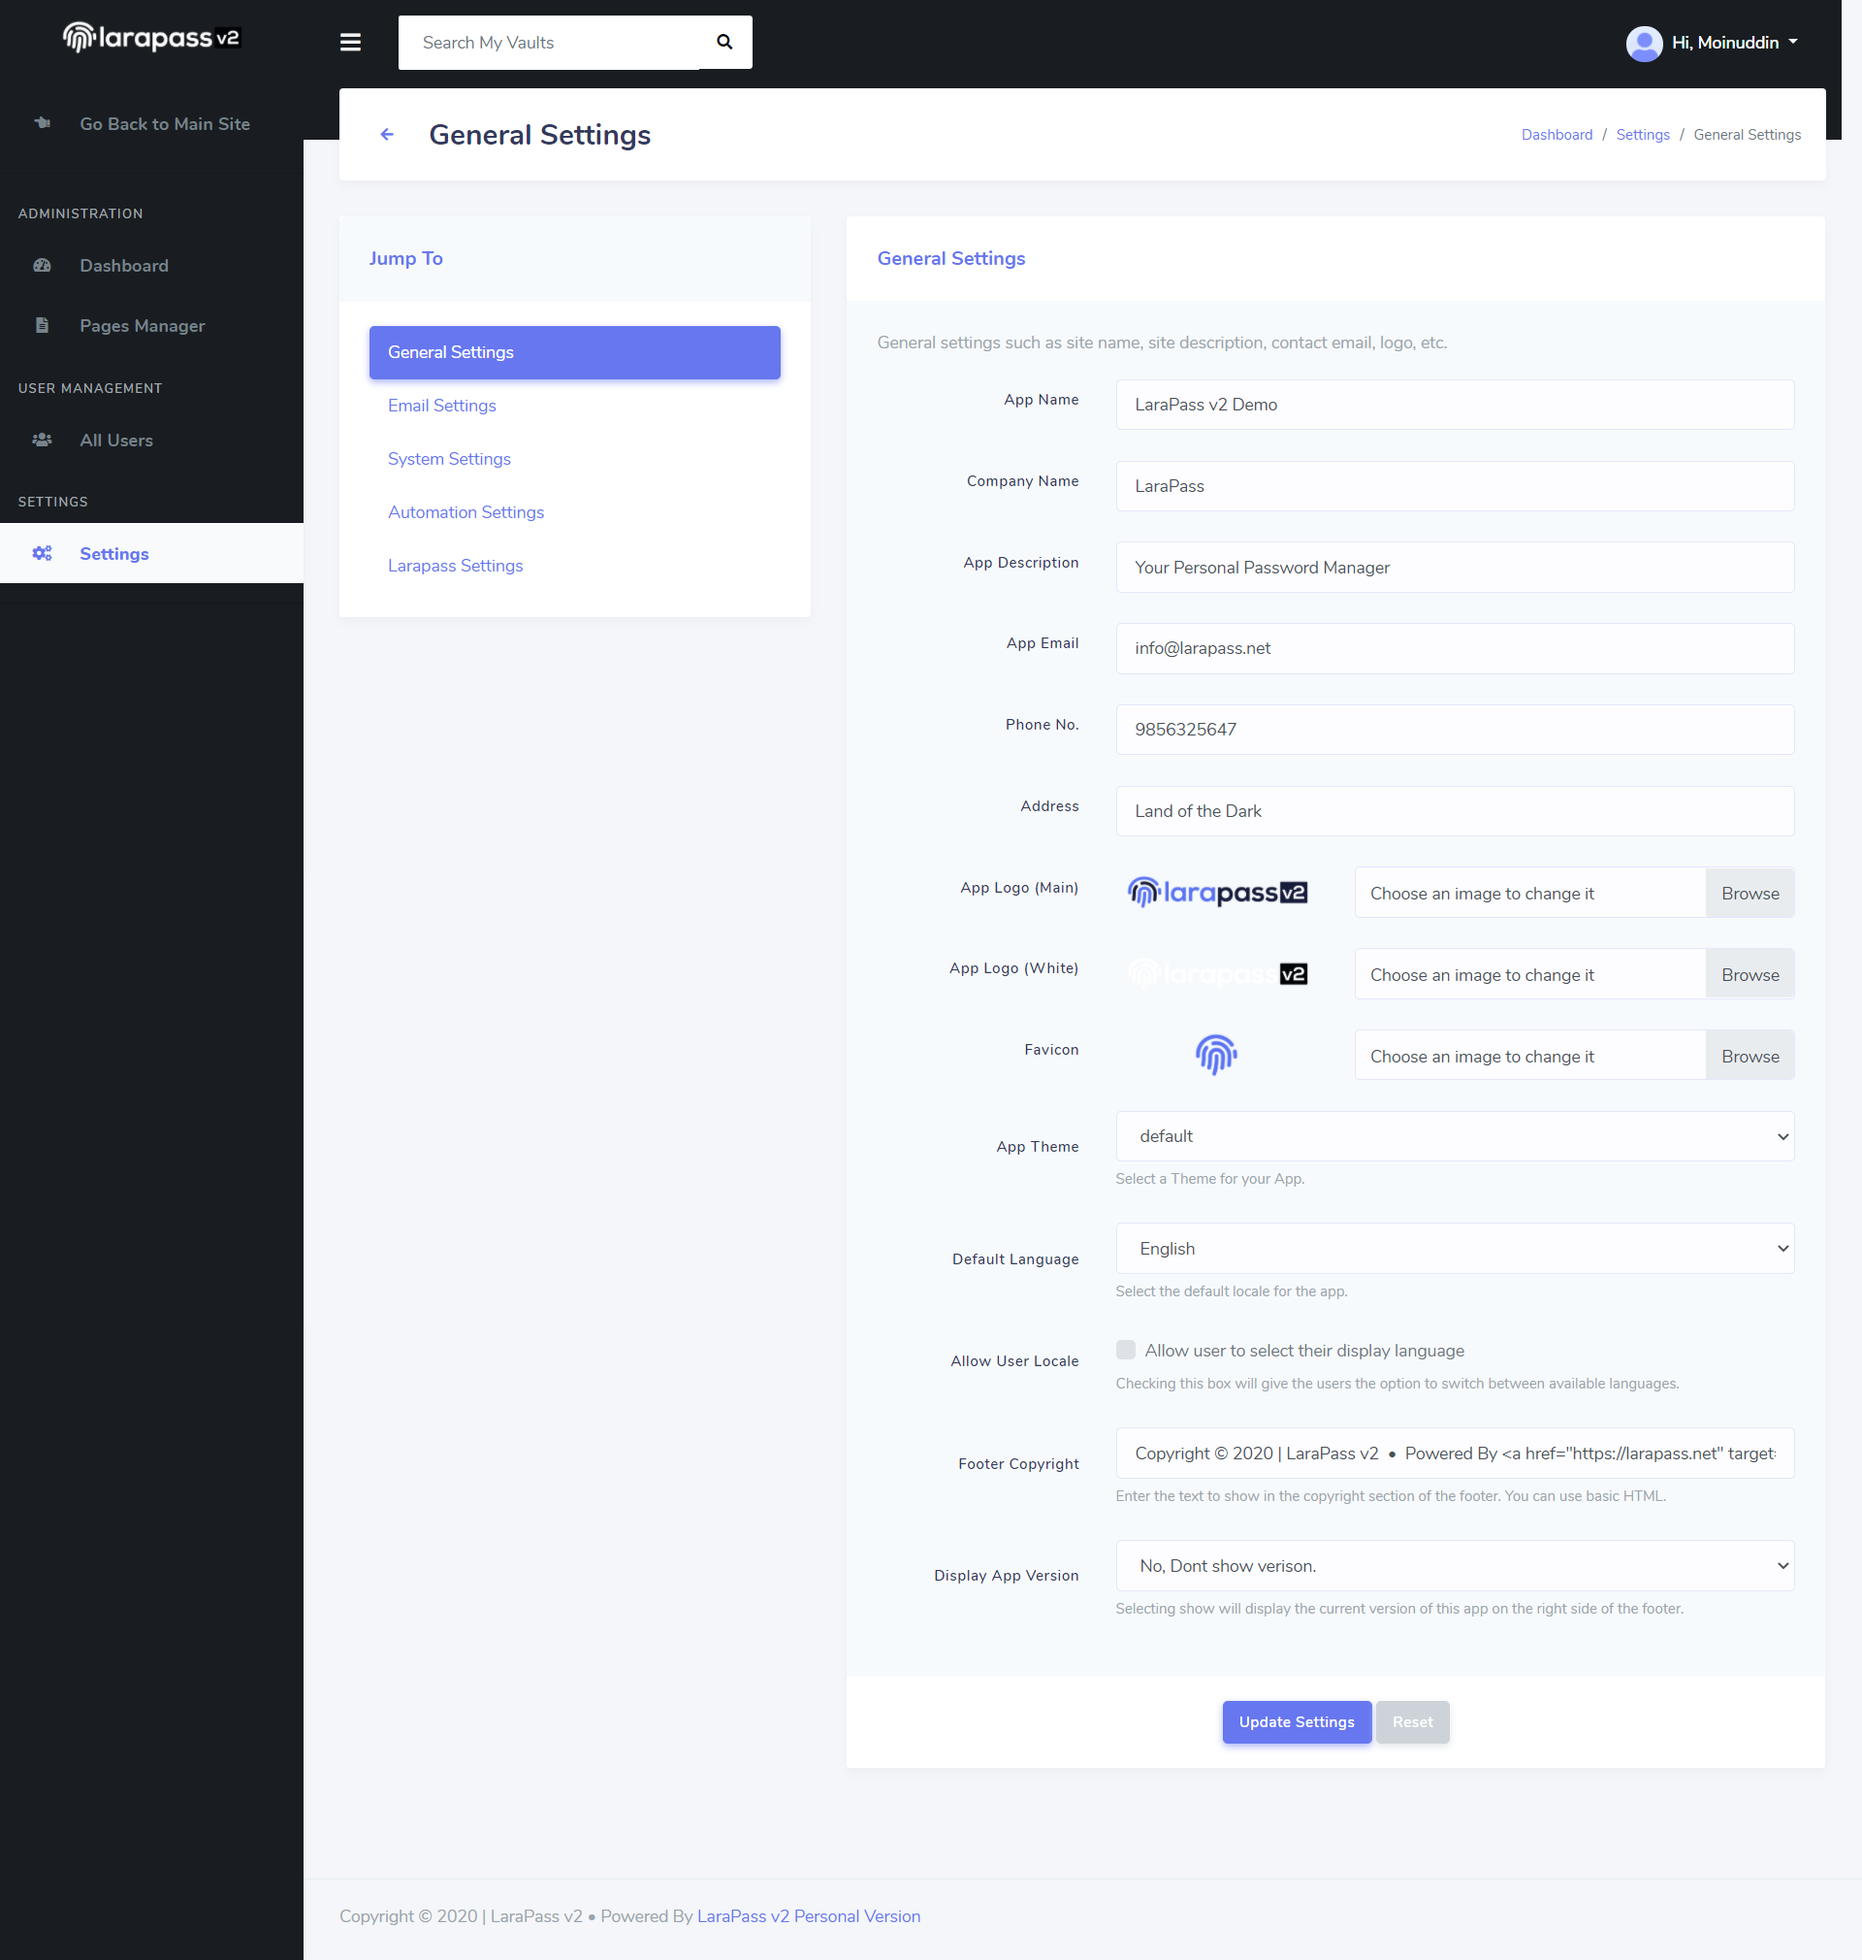
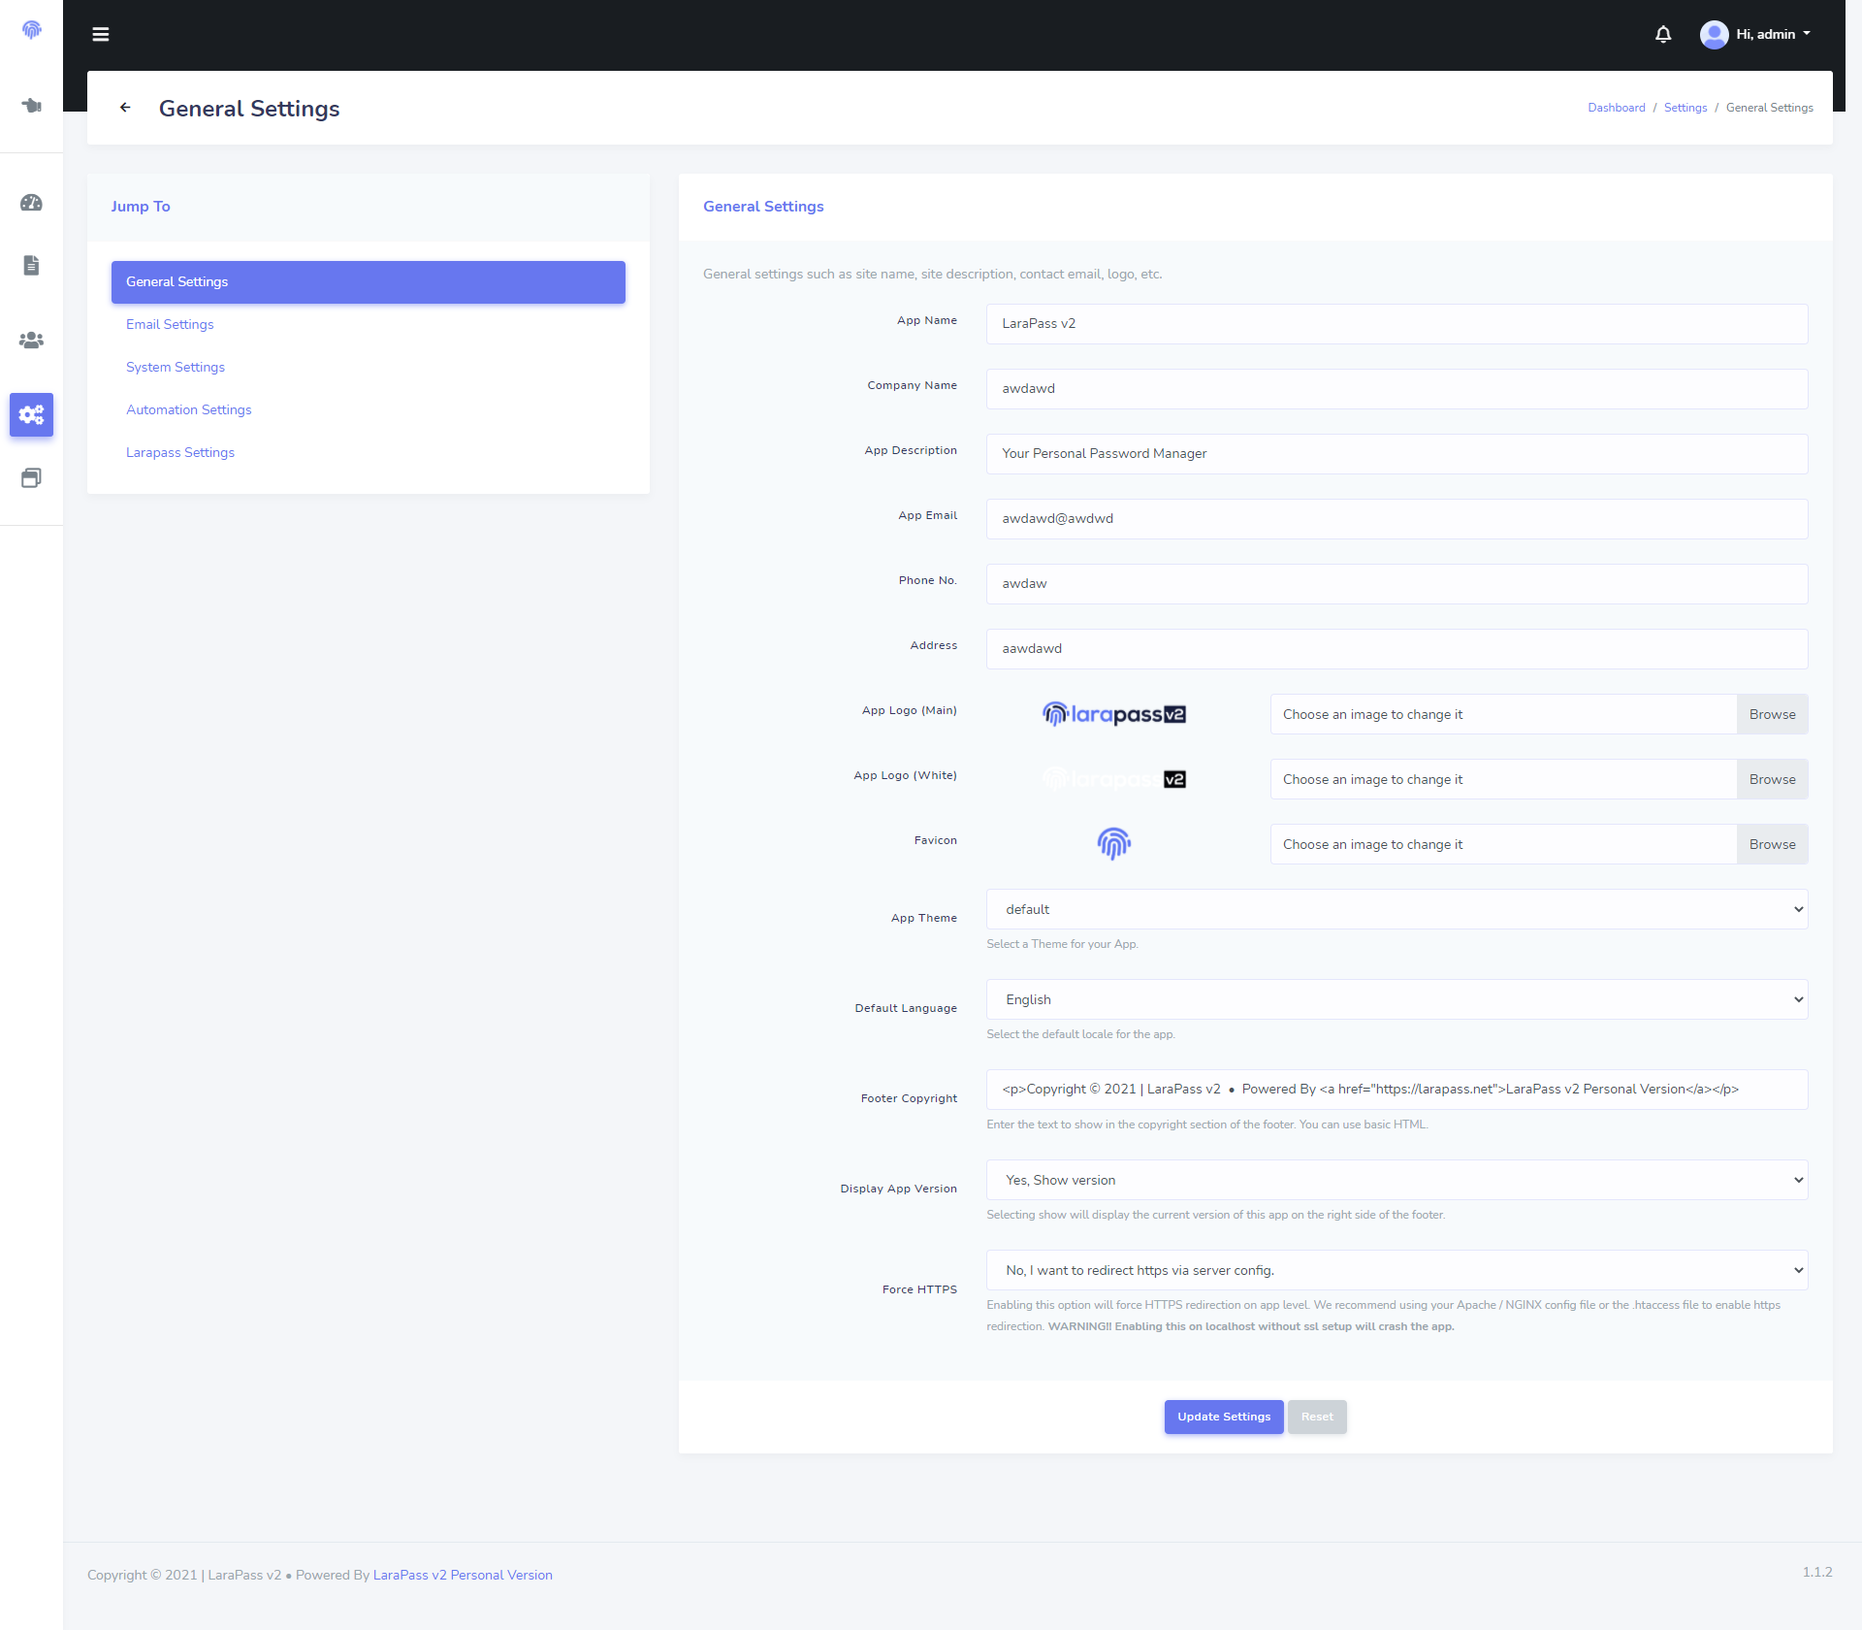
Update 1.1.2

diff --git a/resources/docs/personal/admin/general-settings.md b/resources/docs/personal/admin/general-settings.md
@@ -9,6 +9,7 @@ Admin General Settings page of `LaraPass v2 Personal Version`
 - [Themes](#theme)
 - [Language / Locale](#locale)
 - [Footer Copyright](#copyright)
+- [Force HTTPS](#force-https)
 - [<a href="https://github.com/larapass/docs/edit/master/resources/docs/personal/admin/general-settings.md" target="_blank"><i class="fa fa-edit"></i> Help us improve this page!</a>](#)
 
 <a name="overview"></a>
@@ -53,7 +54,15 @@ You can also enable `Allow User Locale` which will give your users the ability t
 You can display whatever copyright text you want to. The field accepts basic HTML styling and tooling - as such you can also add links in the footer using the `<a href="">` tag.
 
 ---
+
+<a name="force-https"></a>
+## Force HTTPS
+
+You can **`Enable`** App Level HTTPS Redirection by setting the **Force HTTPS** option to **Yes**. This will redirect all unsecured http urls to secured https urls.
+
+> {warning} We highly recommend using your web servers (Apache / NGINX) config file or the .htaccess file to setup and enable force https redirection instead of using this app-level redirection.
+
+---
 <br />
 <larecipe-feedback message="Thankyou for your feedback!">
 </larecipe-feedback>  
-

diff --git a/resources/docs/personal/changelog.md b/resources/docs/personal/changelog.md
@@ -8,12 +8,27 @@ All changes made in `LaraPass v2 Personal Version` releases are recorded here.
 
 ---
 
+- [v1.1.2](#1.1.2)
 - [v1.1.0](#1.1.0)
 - [v1.0.3](#1.0.3)
 - [v1.0.2](#1.0.2)
 - [v1.0.1](#1.0.1)
 - [v1.0.0](#1.0.0)
 - [<a href="https://github.com/larapass/docs/edit/master/resources/docs/personal/changelog.md" target="_blank"><i class="fa fa-edit"></i> Help us improve this page!</a>](#)
+
+<a name="1.1.2"></a>
+## Version **`1.1.2`** | 05-Feb-2020 (Upcoming)
+
+<larecipe-card>
+	<larecipe-badge type="success">Added</larecipe-badge> App Level HTTPS Redirection Option.<br/><br/>
+	<larecipe-badge type="success">Added</larecipe-badge> Countires & States Seeder.<br/><br/>
+	<larecipe-badge type="warning">Updated</larecipe-badge> User Profile Backend Logic.<br/><br/>
+	<larecipe-badge type="warning">Updated</larecipe-badge> Framework to the Latest Version (security update).<br/><br/>
+	<larecipe-badge type="warning">Updated</larecipe-badge> 3rd Party Vendor Packages.<br/><br/>
+	<larecipe-badge type="danger">Fixed</larecipe-badge> Minor Typos.
+</larecipe-card>
+
+---
 
 <a name="1.1.0"></a>
 ## Version **`1.1.0`** | 26-Dec-2020
